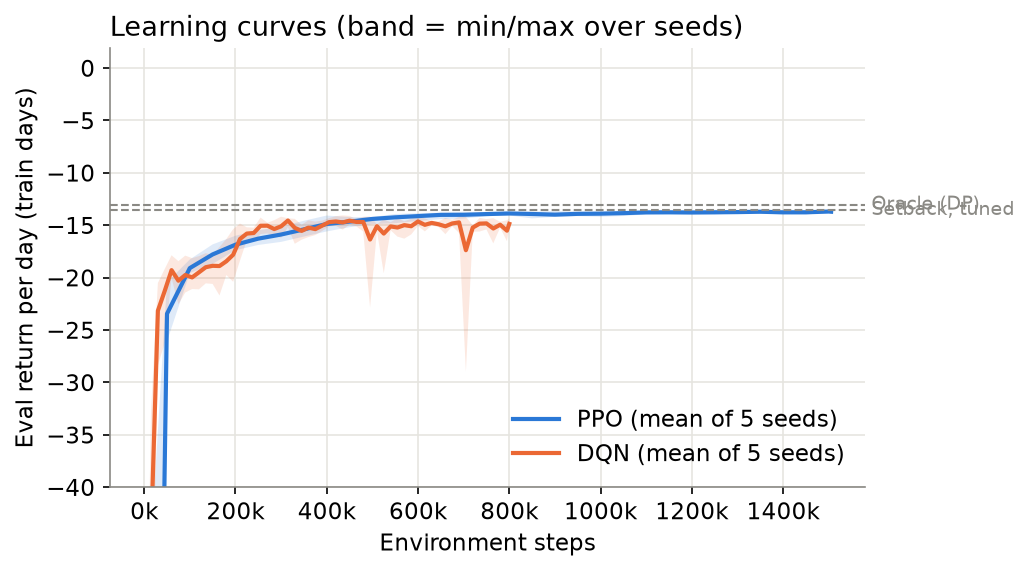
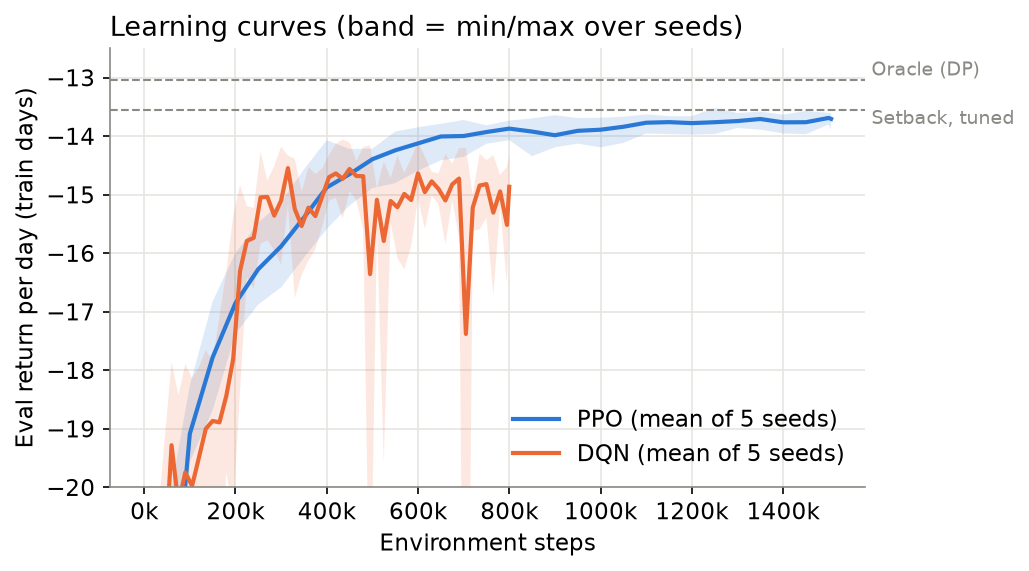
Slides, script and docs updated for tuned-baseline results

diff --git a/scripts/make_figures.py b/scripts/make_figures.py
@@ -125,8 +125,10 @@ def fig_learning_curves():
     if b is not None:
         for _, row in b.iterrows():
             ax.axhline(row.reward, color=C["muted"], linestyle="--", linewidth=1)
-            ax.text(ax.get_xlim()[1], row.reward, " " + LABEL[row.controller], va="center", fontsize=9, color=C["muted"])
-    ax.set_ylim(-40, None)
+            above = row.controller == "oracle"
+            ax.text(ax.get_xlim()[1], row.reward, " " + LABEL[row.controller], fontsize=9, color=C["muted"],
+                    va="bottom" if above else "top")
+    ax.set_ylim(-20, -12.5)
     ax.xaxis.set_major_formatter(matplotlib.ticker.FuncFormatter(lambda x, _: f"{x/1e3:.0f}k"))
     ax.set_xlabel("Environment steps")
     ax.set_ylabel("Eval return per day (train days)")

diff --git a/docs/script.md b/docs/script.md
@@ -34,58 +34,60 @@ The reward is a weighted cost: carbon, plus half the electricity cost, plus a co
 
 The key observation: carbon and cost are both proportional to energy. So the only way to be *carbon*-aware rather than just *efficient* is to shift *when* you consume. And in our data price and carbon are nearly uncorrelated, r = −0.07, so the cheapest hour is not the cleanest."
 
-## 6. Controllers · Jaylon (+ Brandon for the last three rows) · 5:30–6:45
+## 6. Controllers · Jaylon (+ Brandon) · 5:30–6:45
 
-**Jaylon:** "Our baselines go from weak to strong. A fixed 24 °C thermostat. An occupancy setback that only cools during working hours. And a carbon heuristic: it cools deeper when carbon is low and lets the room drift warmer when carbon is high, with the threshold tuned on the training months. Beating that last one is what counts."
+**Jaylon:** "Our rule-based controllers: a fixed thermostat; a setback that only cools during working hours; a carbon heuristic that cools deeper when the grid is clean and lets the room drift warmer when it's dirty; and a carbon-proportional rule whose setpoint rises smoothly with carbon intensity.
 
-**Brandon:** "For learners we use PPO, with the clipped objective, GAE, an entropy bonus and return normalisation, and DQN for comparison. Then the oracle: since the dynamics are deterministic given the weather, we solve the day exactly by backward induction over a fine temperature grid with perfect foresight. That's the best any controller could do, so we can say how much of the achievable saving we capture."
+The important part is that every rule was **tuned**: 972 settings in total, scored on training days with exactly the same reward PPO maximises. Our first results used untuned rules, and PPO looked 11% better. Once the rules were tuned fairly, most of that gap disappeared. We'll come back to that."
 
-**Jaylon:** "Everything is evaluated with 5 seeds on the same 92 test days, with paired bootstrap confidence intervals."
+**Brandon:** "PPO got the same treatment: we searched 12 hyperparameter settings with 2 seeds each on training days, then trained the winner, a larger rollout batch, with 5 fresh seeds. And the oracle: since the dynamics are deterministic given the weather, we solve each day exactly by backward induction with perfect foresight. That's the best any controller could possibly do."
+
+**Jaylon:** "Everything is tested once on 92 unseen days, with paired bootstrap confidence intervals."
 
 ## 7. Main result · Sean · 6:45–8:15
 
-"Here's the main table. The fixed thermostat emits about 19 kg of CO₂ a day. Setback roughly halves that, and the carbon heuristic brings it to 9.3. PPO gets to 8.26: an **11.3% reduction versus the heuristic**, with a 95% interval of about 10.7 to 12%, significant across all five seeds. The oracle is at 7.83, so PPO captures 71% of the remaining gap. Cost falls by about 12% too.
+"Here's the main table. The fixed thermostat emits about 19 kg of CO₂ a day. Simple setback at 24 °C brings it to 11. Then just **tuning that setpoint**, to 25.9 °C, cuts another 23%, to 8.5 kg. That's the biggest single gain in the whole project, and it needs no RL.
 
-The price is comfort. PPO is slightly outside the band on 5.5% of occupied 15-minute steps, but the magnitude is tiny: about a tenth of a degree-hour per day, mostly in the late afternoon."
+Tuned PPO gets to 8.21: **3.7% less carbon than the best tuned rule**, with a tight confidence interval, and 1.1% better on the reward it optimises, significant at p = 0.03. Cost falls about 4%. The oracle is at 7.83, so PPO closes about a fifth of the remaining gap. The price is comfort: violations are more frequent, but tiny, under a tenth of a degree-hour per day."
 
 ## 8. Learning curves · Sean · 8:15–9:00
 
-"PPO passes the heuristic after about 300,000 steps, and the five seeds end within 1.2% of each other. DQN reaches a similar level but collapses intermittently, which is why we prefer PPO here."
+"PPO learns smoothly and its five seeds agree within 1.3%. DQN learns about as fast but collapses intermittently. Notice that on these 16 training days PPO ends level with the tuned rule. It's ahead on the larger validation and test sets, but the edge is small, and we want to be upfront about that."
 
 ## 9. Policy trace · Sean · 9:00–10:15
 
-"What did PPO actually learn? On this test day, the blue line holds the room at about 25.7 °C, just under the top of the band, all day. It doesn't pre-cool. The green heuristic dives to 23.5 °C whenever carbon dips. But with a six-hour time constant, a colder room just leaks heat in faster, so that stored cooling is mostly wasted. PPO discovered that the cheapest strategy in this building is not to store cold."
+"What did PPO learn? Both controllers hold the room high in the band, around 25.7 to 25.9 °C, the same insight the tuning found. The difference is in the details: PPO cools a little harder during the clean-grid dips around 10 am and midday, then coasts up to 26 °C as carbon rises towards the evening. So there is some genuine load-shifting: the carbon PPO pays per kWh is 0.115 versus 0.118 for the rule."
 
-## 10. Is it carbon-aware? · Sean (+ Brandon) · 10:15–11:30
+## 10. Where is the headroom? · Sean (+ Brandon) · 10:15–11:30
 
-"So is PPO really carbon-aware? We tested it directly.
+"We asked where the oracle's advantage actually comes from by taking away one piece of its foresight at a time.
 
-- If we remove carbon intensity from the agent's inputs, carbon goes up by only 1.3%.
-- The average carbon intensity it pays per kWh is the same as the heuristic's, while the oracle pays noticeably less.
-- Removing the clock hurts much more.
+- Take away knowledge of future carbon: it barely changes, worth 0.08 per day.
+- Take away knowledge of when people arrive and leave: it drops by about 1.0, below even the tuned thermostat.
 
-So PPO's gain is mostly from using less energy, not from timing. Real shifting is possible, as the oracle shows, but the headroom is small because this room is a leaky battery. That's exactly why the battery extension is next."
+So in this building **the carbon signal isn't the bottleneck; predicting occupancy is**. That's consistent with everything else: tuning switched off every carbon-reactive feature of the rules, and removing carbon from PPO's inputs costs only about 1%. A single room with a six-hour time constant is a leaky battery."
 
 ## 11. Pareto · Sean → Patrick · 11:30–12:30
 
-"Changing the comfort weight traces this trade-off curve. Low weight: 4.6 kg a day but 8 degree-hours of discomfort. Very high weight: almost perfect comfort, but then the heuristic is actually *not* beaten. So whether PPO 'wins' depends on how much discomfort you accept, and that's a value judgement, which leads into responsible AI."
+"Sweeping the comfort weight traces PPO's trade-off curve; the green line sweeps the thermostat setpoint. Inside the comfort band the two curves overlap, so at matched comfort it's essentially a tie. PPO's extra savings come from accepting a bit more discomfort. How much discomfort is acceptable is a value judgement, which brings us to responsible AI."
 
 ## 12. Responsible AI · Patrick · 12:30–13:45
 
-"Four points.
+"Five points.
 
 1. **The weights are a value choice.** Who sets them: facility managers or occupants? The Pareto front makes the choice visible.
-2. **Specification gaming.** The agent sits right at the edge of what the reward allows. Comfort is only charged when the room is occupied, so a faulty sensor could be exploited. That's why we always *score* comfort on true occupancy.
-3. **Distribution.** Over 40% of violating steps fall between 5 and 6:30 pm: PPO eases off as the day ends, so the people who stay late bear the discomfort. An average hides that.
-4. **Transparency.** The learned policy is simple enough to explain to a facility manager, which supports human override and a rule-based fallback."
+2. **Specification gaming.** PPO sits right at the edge of what the reward allows. Comfort only counts when the room is occupied, so a faulty sensor could be exploited. That's why we always *score* comfort on true occupancy.
+3. **Distribution.** More than half of PPO's violations happen between 5 and 6:30 pm, so the people who stay late bear the discomfort. An average hides that.
+4. **Honest baselines.** Our own first result overstated the gain about threefold because the baseline wasn't tuned. Weak baselines are a quiet way to mislead, so we report the fair comparison.
+5. **Transparency.** A tuned thermostat gets most of the benefit and anyone can explain it. Choosing it over RL can be the responsible deployment choice."
 
 ## 13. Limitations / next · Patrick · 13:45–14:30
 
-"Limits: a single zone, a simplified model and synthetic data profiles. For the report we're adding robustness tests: shifting the carbon signal in time, to check whether the agent reads it or memorises the clock, plus noisy occupancy and different tariff regimes. We're also adding constrained PPO, which treats comfort as a hard constraint instead of a weight, and possibly a battery to give the agent a real lever for shifting."
+"Limits: a single zone, a simplified model, synthetic data profiles, and a small RL margin. The DQN, sweep and ablation runs also used default PPO settings. For the report: occupancy prediction, since that's where the headroom is; robustness tests, including shifting the carbon signal to check the agent reads it rather than memorising the clock; constrained PPO, which treats comfort as a constraint instead of a weight; and a battery, to give the agent a real lever for shifting."
 
 ## 14. Takeaways · Patrick · 14:30–15:00
 
-"PPO beats a tuned carbon-aware rule by 11% and gets 71% of the way to optimal. But it wins by being frugal at the edge of comfort, not by chasing clean hours. We only know that because we compared against an oracle and ran ablations. Thank you. Happy to take questions."
+"Four takeaways. Tune your baseline first: one setpoint gives 23%, and skipping it inflated our RL result about three times. Tuned PPO still wins, by 3.7% carbon, with a little real load-shifting. In one room the carbon signal is worth little; occupancy foresight is the real headroom. And it took an oracle plus fair tuning to see all of this. Thank you, happy to take questions."
 
 ---
 
@@ -93,11 +95,14 @@ So PPO's gain is mostly from using less energy, not from timing. Real shifting i
 
 | Question | Answer |
 |---|---|
+| Is a 3.7% gain worth RL? (Sean / Patrick) | Honestly, maybe not in one room: a tuned thermostat gets most of it. The value of the study is showing where the headroom is (occupancy) and when RL would pay (storage, multi-zone). |
+| How did you make the comparison fair? (Jaylon / Brandon) | Same training days, same reward, tuned budgets for both (972 rule settings; 12 PPO settings × 2 seeds), a single final test on held-out days, paired CIs over 5 seeds. |
 | Why not continuous actions / SAC? (Brandon) | Discrete actions let one problem admit PPO, DQN and an exact DP optimum. Five levels at 15-min steps already give 17 effective power levels per hour. |
-| Why PPO over DQN? (Brandon) | Same final level, but PPO is far more stable across seeds (±1.2%) while DQN has collapses. PPO is also cheap here because the simulator is fast (36k steps/s). |
-| How is the oracle optimal? (Brandon) | Given the realised weather and occupancy, dynamics are deterministic. Backward induction on a 0.05 °C grid with linear interpolation of V; the only approximation is grid interpolation. Unit-tested to dominate every baseline. |
-| Why γ = 0.99? (Brandon) | 1/(1−γ) = 100 steps ≈ 25 h, enough to credit pre-cooling hours ahead. 0.95 would be about 5 h. |
-| Isn't 5.5% violation bad? (Sean) | Small magnitude (0.1 °C·h/day), concentrated 17:00–18:30 and in the afternoon heat peak. The Pareto sweep shows tighter settings, and constrained PPO is the principled fix. |
+| Why PPO over DQN? (Brandon) | PPO is stable across seeds (±1.3%); DQN collapses intermittently and ends 7% worse on reward. DQN wasn't hyperparameter-tuned, which we state as a limitation. |
+| How is the oracle optimal? (Brandon) | Given the realised weather and occupancy, the dynamics are deterministic. Backward induction on a 0.05 °C grid with linear interpolation of V; the only approximation is the grid. Unit-tested to dominate every baseline. |
+| What did tuning change in PPO? (Brandon) | The rollout length doubled (n_steps 384 → 768 per env), giving larger, less noisy batches. γ = 0.995, smaller learning rates and bigger networks did not help. |
+| Why γ = 0.99? (Brandon) | 1/(1−γ) = 100 steps ≈ 25 h, enough to credit pre-cooling hours ahead. 0.995 was tested in tuning and was worse. |
+| Isn't 5% violation bad? (Sean) | It's frequent but tiny (0.08 °C·h/day) and concentrated 17:00–18:30. At matched comfort PPO roughly ties the thermostat; constrained PPO is the principled fix. |
 | Why not real Singapore data? (Ethan) | SG CI is nearly flat (gas grid), so there's nothing to shift. Loaders for real CSVs exist; synthetic profiles are calibrated to published ranges. |
-| Is the agent just following a schedule? (Sean) | Partly, yes: the no-CI ablation shows it. The shifted-CI test in the report checks this directly. |
+| Is the agent just following the clock? (Sean) | Mostly it follows the schedule, as the no-CI ablation shows, but it pays 0.115 vs 0.118 kg/kWh, so it reacts to CI a little. The shifted-CI test in the report checks this directly. |
 | Average vs marginal emissions? (Patrick) | We use average intensity. Marginal factors could change which hours are "clean"; flagged as a limitation. |

diff --git a/docs/slides/slides.md b/docs/slides/slides.md
@@ -104,52 +104,54 @@ Train Jan–Sep · **test Oct–Dec (92 unseen days)**
 
 ---
 
-## Controllers, weakest to strongest
+## Controllers, and a fair fight
 
 | Controller | What it does |
 |---|---|
 | Fixed setpoint | Holds 24 °C around the clock |
-| Occupancy setback | 24 °C from 07:00 on workdays, off otherwise |
-| **Carbon heuristic** | Setback + cool to 23.5 °C when CI is low, drift to 25.5 °C when high; threshold tuned on training months |
-| DQN | Off-policy, ε-greedy, replay buffer |
-| **PPO** | Clipped surrogate, GAE λ = 0.95, entropy 0.01, return normalisation, 8 parallel envs, 800k steps |
+| Setback | Cools during working hours only; **setpoint and start time tuned** |
+| Carbon heuristic | Cools deeper when CI is low, drifts warmer when high; **4 parameters tuned** |
+| Carbon-proportional | Setpoint rises smoothly with CI; **gain and base tuned** |
+| DQN / **PPO** | PPO: clipped surrogate, GAE, return normalisation; **12 settings × 2 seeds tuned** |
 | **Oracle (DP)** | Backward induction with perfect foresight, a true upper bound |
 
-<span class="muted">Protocol: 5 seeds per learner · 92 fixed test days · deterministic policies at test · paired 95% bootstrap CIs</span>
+**Same rules for everyone:** tuned on training days only (972 rule settings), scored with the same reward PPO maximises, then tested **once** on 92 unseen days. 5 seeds per learner, paired 95% bootstrap CIs.
 
-<!-- Jaylon: baselines + metrics. Brandon: PPO/DQN/oracle row -->
+<!-- Jaylon: baselines + tuning. Brandon: PPO/oracle rows -->
 
 ---
 
-## Result: PPO cuts carbon 11% vs the best rule
+## Result: tuning matters most; PPO adds a little more
 
 <div class="cols">
 <div>
 
-| Controller | kg CO₂/day | Violations* |
+| Controller | kg CO₂/day | Viol.* |
 |---|---|---|
 | Fixed setpoint | 18.96 | 0% |
-| Occupancy setback | 11.10 | 0% |
-| Carbon heuristic | 9.31 | 0% |
+| Setback, 24 °C (untuned) | 11.10 | 0% |
+| **Best tuned rule** (25.9 °C) | 8.52 | 0.7% |
 | DQN | 8.52 | 7.6% |
-| **PPO** | **8.26** | 5.5% |
+| **PPO (tuned)** | **8.21** | 5.2% |
 | Oracle (DP) | 7.83 | 3.7% |
 
-<span class="muted">*share of occupied 15-min steps outside 23–26 °C</span>
+<span class="muted">*occupied 15-min steps outside 23–26 °C</span>
 
 </div>
 <div>
 
-<div class="big">−11.3%</div>
+Tuning one setpoint: **−23%** carbon
 
-carbon vs carbon heuristic
-95% CI [−12.0, −10.7]%, p < 0.001
+PPO vs the best tuned rule:
 
-**71%** of the gap from the heuristic to the oracle
+<div class="big">−3.7%</div>
 
-Cost −11.8% as well
+carbon, 95% CI [−4.0, −3.2]%
+**reward +1.1%** (p = 0.03), cost −4.1%
 
-Price: 0.10 °C·h/day of discomfort, mostly 17:00–18:30 and the 13:00–15:00 heat peak
+19% of the gap to the oracle closed
+
+Price: more frequent but tiny violations (0.08 °C·h/day)
 
 </div>
 </div>
@@ -162,35 +164,41 @@ Price: 0.10 °C·h/day of discomfort, mostly 17:00–18:30 and the 13:00–15:00
 
 ![h:440](../../results/figures/learning_curves.png)
 
-PPO passes the carbon heuristic at ~300k steps; all 5 seeds land within ±1.2% of each other on test carbon. DQN reaches a similar level but collapses intermittently.
+PPO plateaus by ~700k steps; its 5 seeds land within 1.3% on test carbon. It ends **level with the tuned rule** on these 16 days and slightly ahead on 60 validation and 92 test days: a small edge.
 
 <!-- Sean (Brandon for PPO stability questions) -->
 
 ---
 
-## What did PPO learn? Ride the top of the comfort band
+## What did PPO learn? Ride the band edge, cool a little in carbon dips
 
 ![h:560](../../results/figures/day_trace.png)
 
-<!-- Sean: PPO holds ~25.7 °C, no pre-cooling. Heuristic over-cools in low-CI dips; with τ = 6 h that "stored" cooling leaks back through the walls. -->
+<!-- Sean: Both hold ~25.7-25.9 °C. PPO cools slightly more in the 10:00 and 12:00-15:00 CI dips, then coasts to 26 °C as CI rises. Effective CI paid: PPO 0.115 vs rule 0.118 kg/kWh. -->
 
 ---
 
-## Is it really carbon-aware? Mostly not, and here is how we know
+## Where is the remaining headroom? Not in the carbon signal
 
 <div class="cols wide-left">
 <div>
 
-![w:720](../../results/figures/ablations.png)
+| Oracle variant (test) | Reward | kg CO₂ |
+|---|---|---|
+| Full foresight | −13.07 | 7.83 |
+| No carbon foresight | −13.15 | 8.01 |
+| **No occupancy foresight** | **−14.08** | 7.92 |
+| *Best tuned rule* | *−13.88* | *8.52* |
+| *PPO (tuned)* | *−13.72* | *8.21* |
 
 </div>
 <div>
 
-- **Removing CI from the state:** carbon barely changes (+1.3%)
-- **Effective CI paid:** PPO 0.117 ≈ heuristic 0.116 kg/kWh; the oracle pays **0.109**
-- **Removing time features** hurts most: the policy leans on the clock
-- PPO's gain is **energy reduction** (−12% kWh), not time-shifting
-- With τ = 6 h and a 3 K band, the room is a leaky battery: little room to shift
+- Knowing future CI is worth **0.08** reward/day
+- Knowing when people arrive and leave is worth **~1.0**
+- Tuning drove every carbon-reactive rule to **ignore CI**
+- Removing CI from PPO's state costs only +1.3% carbon
+- One room with τ = 6 h is a **leaky battery**: little to shift
 
 </div>
 </div>
@@ -199,11 +207,11 @@ PPO passes the carbon heuristic at ~300k steps; all 5 seeds land within ±1.2% o
 
 ---
 
-## The trade-off is a choice, not a fact
+## At matched comfort, it's close to a tie
 
 ![h:430](../../results/figures/pareto.png)
 
-λ_K sweeps from 4.6 kg at 8 °C·h/day to 9.7 kg at ≈0 discomfort. At strict comfort (λ_K = 50) **the heuristic is not beaten**.
+Inside the comfort band, the PPO front and the setpoint sweep overlap. PPO's extra savings come from **accepting more discomfort**.
 
 <!-- Sean presents; Patrick links to RAI -->
 
@@ -211,11 +219,11 @@ PPO passes the carbon heuristic at ~300k steps; all 5 seeds land within ±1.2% o
 
 ## Responsible AI
 
-- **Who sets λ?** The weights encode whose comfort is traded for carbon. The Pareto front makes that trade visible to occupants *and* operators.
-- **Specification gaming:** the agent learned to sit at the edge of the comfort band. Comfort is charged only when occupied, so a faulty sensor invites exploitation. We **score comfort on true occupancy**, never the sensor.
-- **Comfort is a distribution:** ~43% of violating steps fall at 17:00–18:30. PPO eases off as the day ends, so **late leavers** bear the discomfort. The mean hides this.
-- **Transparency:** the policy is simple enough to explain ("hold ~25.7 °C while occupied") → human override and fallback rules.
-- **Carbon accounting:** average vs marginal emission factors can change the conclusion.
+- **Who sets λ?** The weights decide whose comfort is traded for carbon. The Pareto front makes that trade visible.
+- **Specification gaming:** PPO sits at the edge of the band. Comfort is charged only when occupied, so a faulty sensor invites exploitation; we **score comfort on true occupancy**.
+- **Comfort is a distribution:** **53%** of PPO's violations fall at 17:00–18:30. **Late leavers** bear them; the mean hides it.
+- **Honest baselines:** an untuned baseline overstated PPO's gain from 3.7% to 11%. Comparing against weak rules is a quiet way to mislead.
+- **Transparency:** a tuned thermostat gets most of the benefit and is fully explainable. That is a legitimate deployment choice.
 
 <!-- Patrick -->
 
@@ -224,12 +232,13 @@ PPO passes the carbon heuristic at ~300k steps; all 5 seeds land within ±1.2% o
 ## Limitations and what is next
 
 - Single zone, simplified thermal model, **synthetic profiles** (UK CI substituted for Singapore)
-- Thermal mass is a weak store, so the shifting headroom is small (oracle CI 0.109 vs 0.117)
+- Small RL margin; DQN, sweep and ablations used default PPO settings
 
 **In progress for the report**
-- Robustness: unseen CI shift (reads signal vs memorises clock), noisy occupancy, price regimes, anti-correlated CI
+- **Occupancy prediction**: where the oracle's headroom actually is
+- Robustness: shifted CI (reads signal vs memorises clock), noisy occupancy, tariff regimes
 - **Constrained PPO** (Lagrangian): comfort as a constraint, not a weight
-- Battery storage action, to give the agent a real lever for load shifting
+- **Battery storage**: a real lever for carbon shifting
 
 <!-- Patrick -->
 
@@ -237,10 +246,10 @@ PPO passes the carbon heuristic at ~300k steps; all 5 seeds land within ±1.2% o
 
 ## Takeaways
 
-1. PPO beats a tuned carbon-aware rule by **11% carbon** and gets **71%** of the way to the DP optimum
-2. But it wins by **using less energy at the edge of comfort**, not by chasing low-carbon hours
-3. Honest evaluation (oracle, ablations, effective CI) is what reveals the difference
-4. The carbon–comfort trade-off is a **value judgement**; we expose it rather than hide it
+1. **Tune the baseline first:** one setpoint gives −23% carbon; skipping this inflated our RL gain about 3×
+2. Tuned PPO still wins, **−3.7% carbon and +1.1% reward**, with a little genuine load-shifting
+3. The carbon signal is worth little in one room; **occupancy foresight** is the real headroom
+4. An oracle plus fair tuning is what reveals all of this
 
 <br>
 

diff --git a/docs/technical.md b/docs/technical.md
@@ -57,17 +57,23 @@ Real data can replace any series by placing `data/{t_out,price,ci}.csv` (columns
 | Controller | File | Idea |
 |---|---|---|
 | Fixed setpoint | `baselines.py` | Ideal staged thermostat at 24 °C, 24/7 |
-| Occupancy setback | `baselines.py` | 24 °C from 07:00 on workdays or when the sensor reads occupied, otherwise off |
-| Carbon heuristic | `baselines.py` | Setback, plus cool to 23.5 °C when CI < θ and drift to 25.5 °C when CI ≥ θ; pre-cool from 05:00. θ tuned on train (`results/heuristic.json`) |
-| PPO / DQN | `scripts/train.py` | stable-baselines3, MLP 64×64, hyperparameters in the file and in each run's `config.json` |
+| Occupancy setback | `baselines.py` | Setpoint from `lead_hours` before 08:00 on workdays or when the sensor reads occupied, otherwise off |
+| Carbon heuristic | `baselines.py` | Setback that cools to `low` when CI < θ and drifts to `high` when CI ≥ θ, optional pre-cool |
+| Carbon-proportional | `baselines.py` | Setback with setpoint = base + gain·(CI − median CI) |
+| PPO / DQN | `scripts/train.py` | stable-baselines3, MLP 64×64; `--hp key=value` overrides; settings saved in each run's `config.json` |
 | Oracle | `oracle.py` | Backward induction over a 0.05 °C grid (401 points × 96 steps × 5 actions) with perfect foresight; one-step lookahead at execution |
+
+**Tuning (same budget rules for every controller).** `eval_baselines.py` grid-searches all three rules (972 settings) on 60 training days, maximising mean reward. It also picks a matched-comfort variant (lowest carbon with ≤1% occupied-step violations). Chosen settings go to `results/baselines_tuned.json`; all three rules converge to setback at ≈25.9 °C. `tune_ppo.sh` tries 12 PPO settings × 2 seeds × 1.5M steps on the same 60 days. `select_ppo.py` picks the best by mean validation reward (`n_steps=768`), which is then trained with 5 seeds as tag `main_tuned`. No tuning run sees the test period.
 
 ## 5. Reproducing results
 
 ```bash
 pytest                                   # simulator validation (§5 of report)
-python scripts/eval_baselines.py         # tune heuristic, baselines + oracle on test
+python scripts/eval_baselines.py         # tune all rules on train, evaluate rules + oracle on test (~1 min)
 scripts/run_all.sh                       # 48 runs: main, λK sweep, ablations (~30 min on 8 cores)
+scripts/tune_ppo.sh                      # PPO hyperparameter search, validation only (~25 min)
+python scripts/select_ppo.py             # rank configs -> results/ppo_selected.json
+# then: train.py --tag main_tuned --hp n_steps=768 --steps 1500000 for seeds 0-4
 scripts/run_all.sh main -j 4             # just one group
 python scripts/make_figures.py           # results/figures/*.png, results/tables/*
 ```

diff --git a/PLAN.md b/PLAN.md
@@ -108,3 +108,10 @@ The slides show the main comparison, the Pareto front and the CI ablation. Robus
 - Slides (`docs/slides/slides.md`), script (`docs/script.md`), §4 draft, `docs/technical.md` written.
 
 **Next (stage 5, after Thursday):** scenario evals (shifted CI, sensor noise, price/CI regimes), Lagrangian PPO, §6 PPO draft, real data if obtained.
+
+**Tue 10 Nov, late (fairness pass)**
+- An untuned "carbon heuristic" made PPO look 11% better. A plain setback at 25.9 °C matched PPO.
+- Tuned all rules (972 settings, train days): all converge to setback at ≈25.9 °C (8.52 kg/day). Tuning PPO (12 configs × 2 seeds) selected n_steps=768.
+- Final: tuned PPO vs best tuned rule: carbon −3.7% [−4.0, −3.2], reward +1.1% (p=0.03), 19% of the gap to the oracle.
+- Oracle decomposition: carbon foresight worth 0.08 reward/day, occupancy foresight ~1.0. The headroom is in occupancy prediction.
+- Slides and script rewritten around this story.
